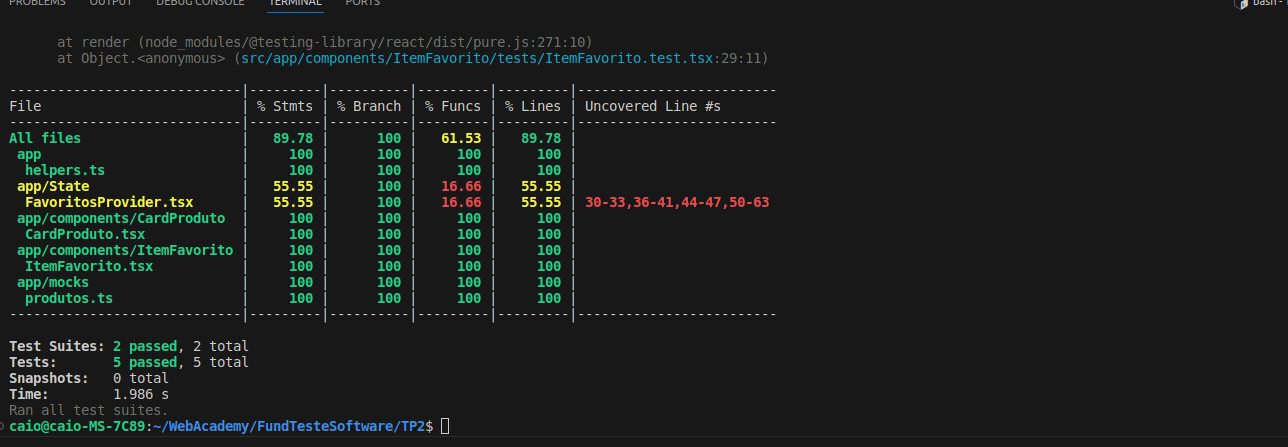
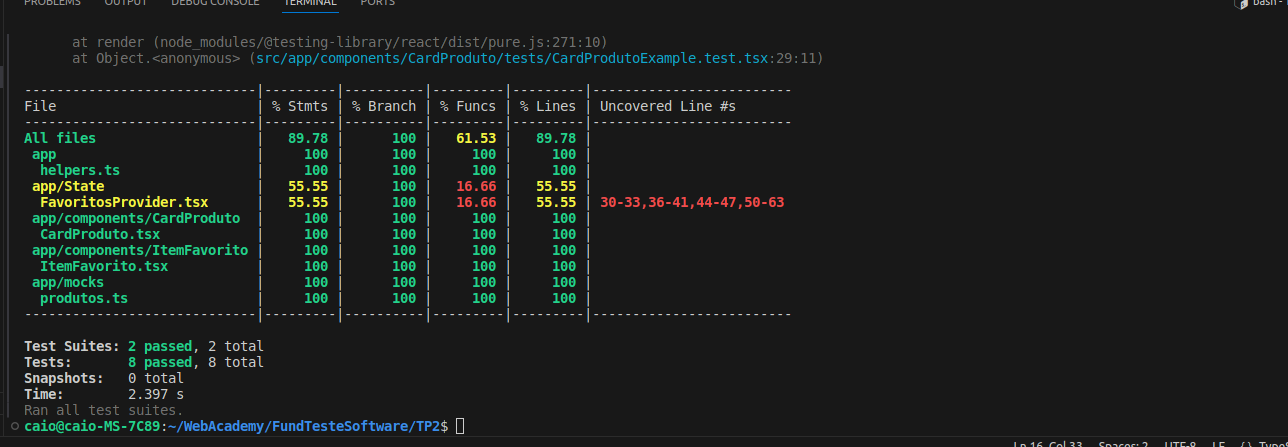
update tp2

diff --git a/FundTesteSoftware/TP2/src/app/components/ItemFavorito/tests/ItemFavorito.test.tsx b/FundTesteSoftware/TP2/src/app/components/ItemFavorito/tests/ItemFavorito.test.tsx
@@ -65,4 +65,86 @@ describe("ItemFavorito", () => {
 
     expect(setFavoritos).toHaveBeenCalledTimes(1);
   });
+
+  it("deve remover item dos favoritos quando o botão de remover é clicado", async () => {
+    const setFavoritos = jest.fn();
+    const useProdutoFavoritoMock = useProdutoFavorito as jest.Mock;
+    useProdutoFavoritoMock.mockReturnValue(false);
+
+    const produtoMockado = mockProdutos[0];
+
+    render(
+      <FavoritosProvider>
+        <ItemFavorito
+          itemFavorito={produtoMockado}
+          setFavoritos={setFavoritos}
+        />
+      </FavoritosProvider>
+    );
+
+    const botao = screen.getByRole("button", {
+      name: /Remover/i,
+    });
+
+    await userEvent.click(botao);
+
+    expect(setFavoritos).toHaveBeenCalledWith(expect.any(Function));
+    const newFavorites = setFavoritos.mock.calls[0][0]([produtoMockado]);
+    expect(newFavorites).toEqual([]);
+  });
+
+  it("deve calcular o valor com desconto corretamente", () => {
+    const useProdutoFavoritoMock = useProdutoFavorito as jest.Mock;
+    useProdutoFavoritoMock.mockReturnValue(false);
+
+    const produtoMockado = mockProdutos[0];
+    const { preco, desconto } = produtoMockado;
+
+    const precoComDesconto = calculaValorComPorcentagemDeDesconto(
+      Number(produtoMockado.preco),
+      produtoMockado.desconto
+    );
+
+    render(
+      <FavoritosProvider>
+        <ItemFavorito itemFavorito={produtoMockado} setFavoritos={() => {}} />
+      </FavoritosProvider>
+    );
+
+    const precoEsperado =
+      Number(preco) - (Number(preco) * Number(desconto)) / 100;
+
+    expect(
+      screen.getByText(`R$ ${precoEsperado.toFixed(2)}`)
+    ).toBeInTheDocument();
+
+    expect(precoComDesconto).toEqual(precoEsperado);
+  });
+
+  it("deve chamar setFavoritos com o array de produtos atualizado quando o botão de remover é clicado", async () => {
+    const setFavoritos = jest.fn();
+    const useProdutoFavoritoMock = useProdutoFavorito as jest.Mock;
+    useProdutoFavoritoMock.mockReturnValue(false);
+
+    const produtoMockado = mockProdutos[0];
+
+    render(
+      <FavoritosProvider>
+        <ItemFavorito
+          itemFavorito={produtoMockado}
+          setFavoritos={setFavoritos}
+        />
+      </FavoritosProvider>
+    );
+
+    const botao = screen.getByRole("button", {
+      name: /Remover/i,
+    });
+
+    await userEvent.click(botao);
+
+    expect(setFavoritos).toHaveBeenCalledWith(expect.any(Function));
+    const newFavorites = setFavoritos.mock.calls[0][0]([produtoMockado]);
+    expect(newFavorites).toEqual([]);
+  });
 });
